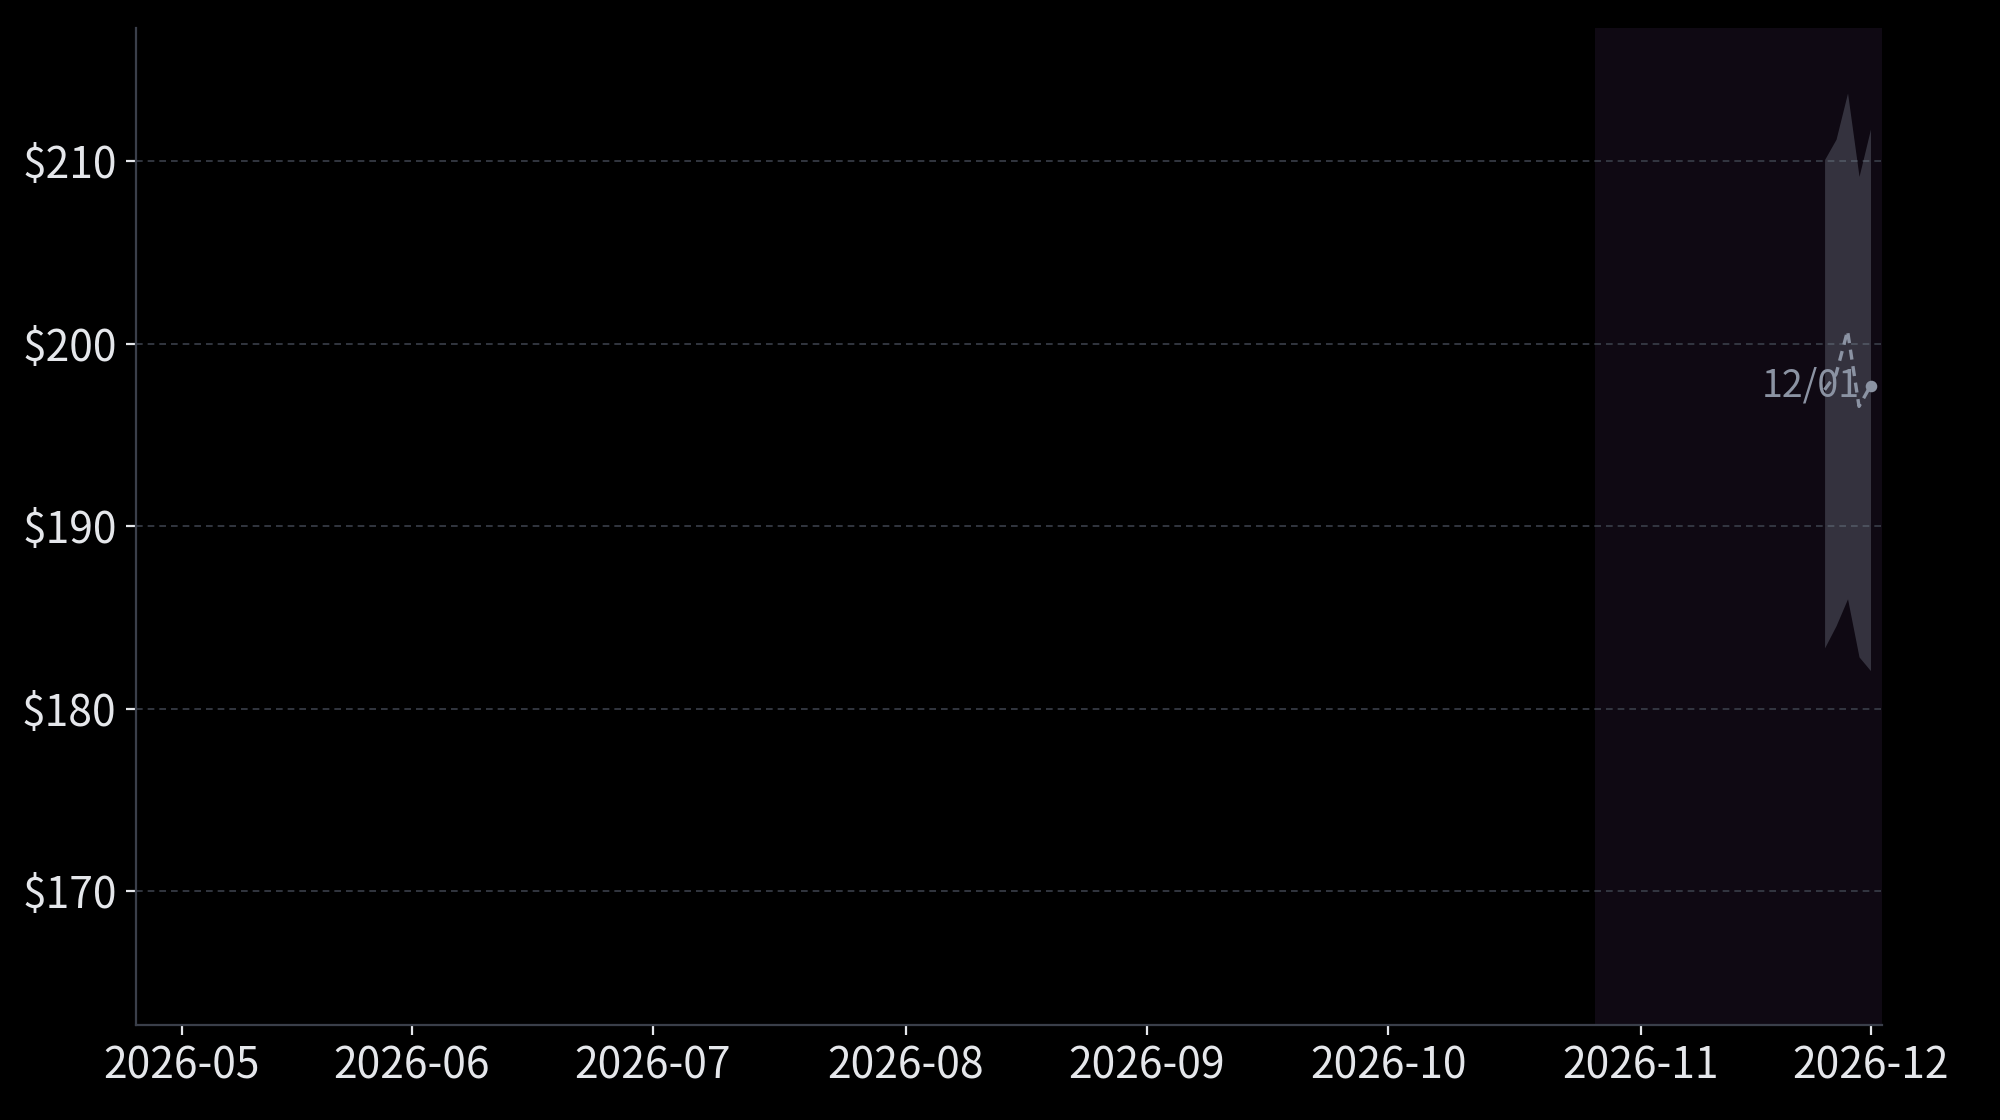
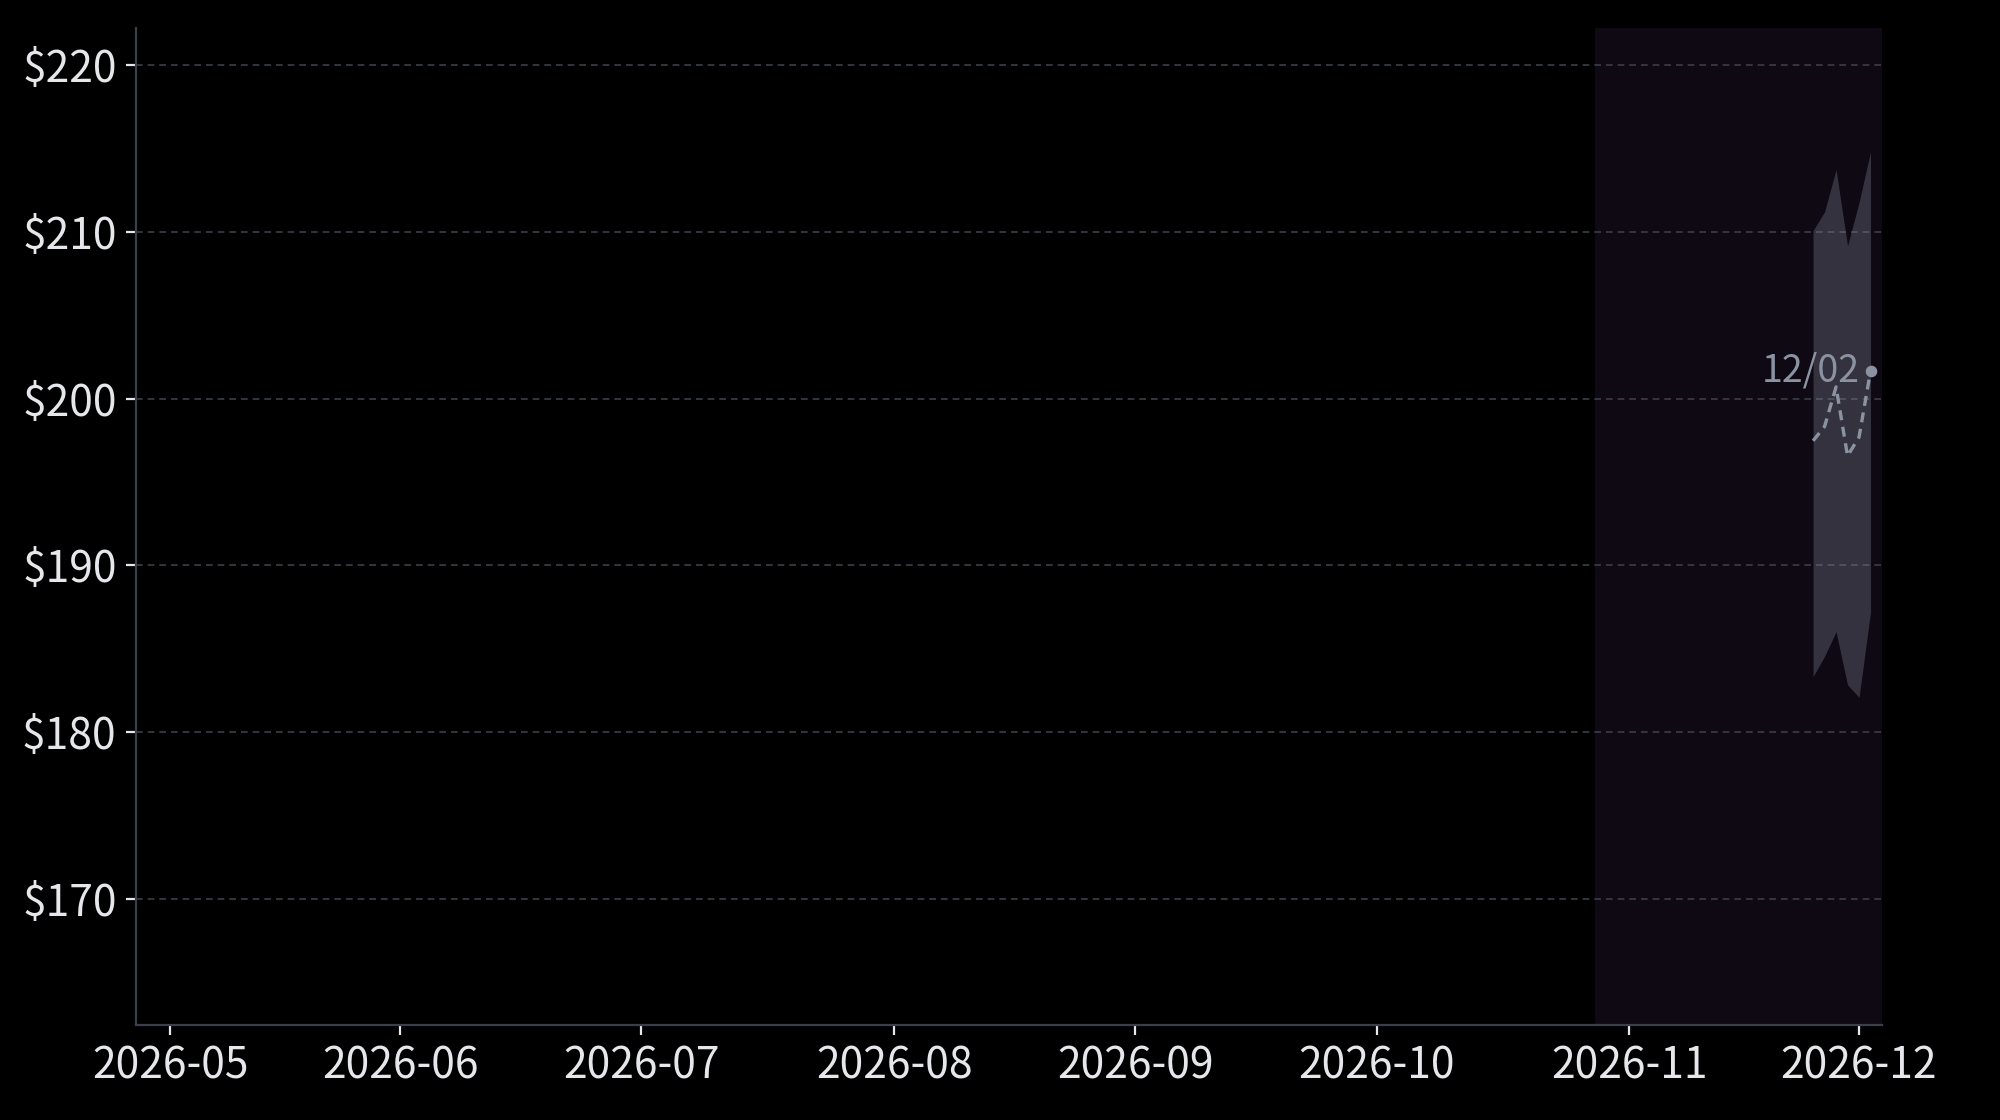
2026-10-29 biotech 리포트 공개본

diff --git a/r/20261029-biotech/report.html b/r/20261029-biotech/report.html
@@ -1,0 +1,109 @@
+<h2 id="1개월-지수-방향-예측">1개월 지수 방향 예측</h2>
+<p><img src="r/20261029-biotech/chart-biotech.png?v=8fc7914ad5" /></p>
+<p><img src="r/20261029-biotech/predict-biotech.png?v=5818e9bf67" /></p>
+<h3 id="현재-상태-금리가-오르고-알파벳-주가가-급락한-날에도-바이오-주가는-올랐다"><mark>현재 상태</mark> 금리가 오르고 알파벳 주가가 급락한 날에도 바이오 주가는 올랐다</h3>
+<p>10월 28일 연준은 기준금리를 3.75~4.00%로 동결했다. 위원 두 명은 0.25%p 인상을 주장하며 반대했다. 결정 뒤 연방기금 선물은 12월 인상 확률을 85.7%로 반영했고, 10년물 국채 수익률은 다시 5%를 넘었다. 알파벳의 3분기 잉여현금흐름은 같은 날 장 마감 뒤 발표에서 크게 줄었다. 알파벳 주가는 시간외 거래에서 10% 안팎 하락했다. 그런데도 나스닥바이오 지수는 그날 1.5% 올랐고, IBB도 시간외 거래에서 더 올랐다. 바이오 주가는 이틀 동안 올랐지만, 오른 이유를 설명한 보도는 아직 없다. 하이일드 채권 스프레드(투자자가 위험한 기업에 돈을 빌려줄 때 요구하는 신용 프리미엄)는 2주 만에 처음 낮아져 신용 불안은 줄었다. 그래도 10년물 국채 수익률이 반년 넘게 주식의 기대수익보다 높으므로 바이오 주가가 크게 오르기는 어렵다.</p>
+<h3 id="주요-분기와-예측-기술주-조정과-선거-뒤-이란-공격-여부에-따라-한-달-주가가-달라진다"><mark>주요 분기와 예측</mark> 기술주 조정과 선거 뒤 이란 공격 여부에 따라 한 달 주가가 달라진다</h3>
+<p>앞으로 한 달 동안 세 가지 이슈가 중요하다. 첫째, AI 기업의 설비투자 자금 부담 때문에 알파벳 실적 뒤 기술주 하락이 이어질 가능성이 높지만, 바이오 주가가 함께 크게 하락할 가능성은 낮다. 둘째, 중간선거 뒤 미국이 이란을 다시 공격할 가능성과 휴전을 유지할 가능성은 비슷하다. 미군은 대통령 명령 뒤 96시간 안에 공격할 수 있게 준비했다. 셋째, 9월 개인소비지출(PCE) 물가는 시장 예상에 가깝게 나올 가능성이 높다. 길리어드를 비롯한 대형 바이오 네 곳은 시장 예상을 넘는 실적을 낼 가능성이 조금 더 높다.</p>
+<h3 id="지수-영향-횡보-가능성이-가장-높고-큰-하락-가능성은-어제보다-줄었다"><mark>지수 영향</mark> 횡보 가능성이 가장 높고 큰 하락 가능성은 어제보다 줄었다</h3>
+<p>한 달 동안 지수가 횡보할 가능성이 가장 높고, 하락할 가능성이 그다음으로 높다. 하락 시나리오의 가능성을 키우는 일이 두 가지 있다. 기술주와 함께 바이오 주가도 하락하면 하락 시나리오의 가능성이 커진다. 선거 뒤 미국의 이란 공격이 확전으로 이어져도 하락 시나리오의 가능성이 커진다. 반대로 물가 상승세가 둔해지면 상승 시나리오의 가능성이 커진다. 대형 인수 발표도 상승 시나리오의 가능성을 키운다. 큰 하락 시나리오의 가능성은 어제보다 줄었고 상승과 횡보 시나리오의 가능성은 커졌다. 어제와 오늘 사이에 하이일드 채권 스프레드가 낮아졌다. 금리 상승과 기술주 하락에도 바이오 주가는 하락하지 않았다.</p>
+<h2 id="주요-이슈-해설">주요 이슈 해설</h2>
+<h3 id="1-알파벳-실적과-기술주-조정-하락-요인-중요도-높음">1. 알파벳 실적과 기술주 조정 <code>하락 요인</code> <code>중요도 높음</code></h3>
+<p><mark>현재 상태</mark> 마이크로소프트와 알파벳은 10월 28일 장 마감 뒤 3분기 실적을 발표했다. 마이크로소프트의 클라우드 서비스 Azure 매출은 48% 늘었다. 마이크로소프트 주가는 시간외 거래에서 3% 넘게 올랐다. 알파벳의 3분기 잉여현금흐름은 -90.7억 달러로 애널리스트 예상보다 훨씬 나빴다. 알파벳 주가는 시간외 거래에서 10% 안팎 하락했다. 알파벳은 3분기에 회사채로 287억 달러, 새 주식으로 약 124억 달러를 조달했다. CNBC는 알파벳의 실적을 AI 투자에 대한 우려스러운 신호로 전했고, 나스닥100 선물은 1.2% 하락했다. 하지만 같은 시간 IBB는 시간외 거래에서 0.6% 올랐다.</p>
+<p><mark>주요 분기와 예측</mark> AI 기업이 설비투자 자금을 빚과 새 주식으로 마련한다는 우려 때문에 기술주가 조금 더 하락할 가능성이 높다. 나스닥100 ETF인 QQQ는 10월 6일 고점보다 약 4.5% 낮다. 바이오 주가는 기술주를 따라 크게 하락하지 않을 가능성이 높다. 메타 실적 다음 날에도 QQQ는 2.9% 하락했지만 IBB는 0.75% 하락에 그쳤다. 다만 QQQ가 고점 대비 8% 넘게 하락하면 바이오 주가도 함께 하락할 가능성이 커진다.</p>
+<p><mark>지수 영향</mark> 기술주가 하락하면 투자자가 위험자산을 함께 줄이면서 바이오 주가도 하락할 수 있다. 지금은 이 경로가 약하게 작동한다. 알파벳 급락 뒤에도 IBB 시간외 가격이 올랐기 때문이다. 2018년 10월 24일 나스닥바이오 지수는 하루에 6% 넘게 하락했다. 금리가 오르는 가운데 기술주가 급락한 날이다. 그해 12월에 지수는 한 번 더 크게 하락했다.</p>
+<h3 id="2-중간선거-뒤-미국의-이란-재공격-양방향-중요도-보통">2. 중간선거 뒤 미국의 이란 재공격 <code>양방향</code> <code>중요도 보통</code></h3>
+<p><mark>현재 상태</mark> 백악관은 10월 27일 로이터에 중간선거 전에는 이란을 공격하지 않겠다고 다시 밝혔다. CNN에 따르면 미국은 같은 날 사우디아라비아에 주재하는 비필수 인원과 가족에게 출국을 명령했고, 미군은 대통령 명령 뒤 96시간 안에 이란을 공격할 수 있다. 이란은 호르무즈 해협을 다시 여는 조건으로 동결된 외환 240억 달러를 먼저 쓸 수 있게 해 달라고 요구했다. 9월 보도의 120억 달러보다 많다. 예측시장은 선거 전 공격 가능성을 낮게 반영했다. 예측시장은 10월 19일 기준으로 선거 뒤 한 달 안의 공격 가능성을 절반 가까이로 반영했다.</p>
+<p><mark>주요 분기와 예측</mark> 선거 뒤 한 달 안에 미국이 이란을 짧게 집중 공격할 가능성과 공격하지 않을 가능성이 비슷하다. 공격이 호르무즈 해협 재봉쇄로 이어질 가능성은 낮다. 협상에서 이란의 요구가 늘었기 때문에 선거 전에 타결될 가능성도 낮다. 미국이 해상 봉쇄를 풀겠다고 밝히면 공격 가능성이 줄어든다. 그러면 유가도 하락한다.</p>
+<p><mark>지수 영향</mark> 선거 뒤 몇 주 동안 공격이 없으면 투자자는 공격 위험을 주가에 덜 반영한다. 그러면 바이오 주가가 조금 오른다. 공격이 일어나면 유가 상승 때문에 바이오 주가가 하락한다. 5년 기대 인플레이션은 이미 평상시 범위의 위쪽 끝에 있다. 그래서 유가가 더 오르면 금리 인상에 대한 기대가 커질 수 있다. 2026년 3월 이란 전쟁이 확전됐을 때 IBB는 열흘 사이 세 차례 2% 넘게 하락했고, 4월 초까지 낙폭의 대부분을 회복했다.</p>
+<h3 id="3-바이오-기업의-공모증자-자금-조달-양방향-중요도-보통">3. 바이오 기업의 공모·증자 자금 조달 <code>양방향</code> <code>중요도 보통</code></h3>
+<p><mark>현재 상태</mark> 바이오 기업은 아직 주식과 전환사채로 자금을 모을 수 있다. 신경질환 치료제를 개발하는 Rapport Therapeutics는 10월 28일 주식 1.75억 달러와 전환사채 1.5억 달러를 발행하기로 확정했다. 10월 들어 공모를 철회하거나 제시한 범위보다 낮은 가격으로 상장한 바이오 기업은 없다. 다만 일부 기업은 할인된 가격으로 증자했다. 면역질환 치료제를 개발하는 Aclaris는 임상 결과를 발표한 날 직전 종가보다 7.7% 낮은 가격에 주식을 팔았다.</p>
+<p><mark>주요 분기와 예측</mark> 한 달 동안 바이오 기업의 공모와 증자가 이어질 가능성이 높다. 반대로 바이오 주가가 크게 하락하면 기업들이 공모를 미룬다. 그러면 중소형 바이오가 자금을 구하기 어려워진다. 11월 13일까지 공모 철회가 두 건 이상 나오면 중소형 바이오 주가가 하락할 가능성이 커진다.</p>
+<p><mark>지수 영향</mark> 공모와 증자가 이어지면 지수는 횡보하거나 조금 오른다. 지수가 6.5% 넘게 하락하면 기업들이 공모를 철회한다. 그러면 중소형 바이오 주가가 더 하락할 수 있다. 지금은 바이오 기업 대부분이 제시한 범위 안에서 공모 가격을 확정한다. 2024년 4월에는 그해 3월에 상장한 바이오 기업 9곳 가운데 세 곳만 주가가 공모가보다 높았다. 같은 시기 IBB는 일주일 사이 약 5% 하락했다.</p>
+<h3 id="검토했지만-비중을-낮춘-이슈">검토했지만 비중을 낮춘 이슈</h3>
+<ul>
+<li><strong>AI 인프라 기업의 신용 불안 확산</strong>: 하이일드 채권 스프레드가 2주 만에 처음 낮아졌다. 알파벳 실적 뒤에도 회사채 시장의 반응은 보도되지 않았다.</li>
+<li><strong>상장 바이오 기업의 추가 대형 인수</strong>: 거래 당사자들이 중간선거 뒤를 기다리고 있다. 그래서 한 달 안에 대형 인수가 발표될 가능성은 절반 정도다.</li>
+<li><strong>9월 개인소비지출 물가</strong>: 시장은 이미 12월 금리 인상을 예상한다. 그래서 예상에 가까운 결과에는 주가가 크게 움직이지 않는다.</li>
+<li><strong>10월 FOMC의 인상 반대 두 표</strong>: 시장이 이미 12월 인상을 예상하고 있어 바이오 주가는 결정 당일에도 올랐다.</li>
+<li><strong>재무부의 중국 바이오 투자 제한 규칙안</strong>: 여러 로펌의 해석으로는 현금으로 대가를 치르는 신약 후보 라이선스가 규칙 대상이 아니다. 그래서 이번 달 바이오 기업의 이익으로 이어지는 경로가 약하다.</li>
+<li><strong>앤트로픽 대형 상장</strong>: AI 모델 개발사 앤트로픽이 11월 중순 상장을 준비하고 있지만, 바이오 공모 일정에 영향을 주는지는 아직 확인되지 않았다.</li>
+</ul>
+<h2 id="다가오는-이벤트">다가오는 이벤트</h2>
+<h3 id="1028수-장중-fomc-중요도-낮음" data-day="2026-10-28" data-level="low"><span class="when">10/29(목) 03:00 KST</span>FOMC <code>중요도 낮음</code></h3>
+<table class="events judged">
+<thead><tr><th>분기</th><th>확률</th><th>전개 예상</th></tr></thead>
+<tbody>
+<tr class="hit"><td class="branch">기준금리 동결·12월 인상 시사 유지</td><td class="chance">92%</td><td>시장이 이미 예상한 결과라 발표 뒤 바이오 주가가 크게 움직이지 않는다. <span class="outcome">→ 연준이 기준금리를 3.75~4.00%로 동결했고 쿡·해맥 두 위원이 0.25%p 인상을 주장하며 반대했다. 성명은 12월 인상을 명시하지 않았다. 결정 뒤 12월 인상 확률은 85.7%로 올랐고, 그날 IBB는 1.5% 올랐다.</span></td></tr>
+<tr><td class="branch">동결·추가 조정 문구 약화</td><td class="chance">3%</td><td>투자자가 금리 인상이 곧 끝난다고 기대해 바이오 주가가 오른다.</td></tr>
+<tr><td class="branch">기준금리 0.25%p 인상</td><td class="chance">5%</td><td>예상하지 못한 인상이라 금리 부담이 커지고 바이오 주가가 몇 주 동안 하락한다.</td></tr>
+</tbody>
+</table>
+<h3 id="1028수-장후-마이크로소프트알파벳-3분기-실적-중요도-보통" data-day="2026-10-28" data-level="mid"><span class="when">장후</span>마이크로소프트·알파벳 3분기 실적 <code>중요도 보통</code></h3>
+<table class="events judged">
+<thead><tr><th>분기</th><th>확률</th><th>전개 예상</th></tr></thead>
+<tbody>
+<tr><td class="branch">클라우드 성장으로 AI 설비투자 정당화</td><td class="chance">55%</td><td>기술주에 대한 불안이 줄어 바이오 주가도 조금 오른다.</td></tr>
+<tr class="hit"><td class="branch">설비투자 상향에 조달 부담·성장 둔화 부각</td><td class="chance">45%</td><td>기술주가 다시 하락하고 AI 기업의 신용 불안이 커져 바이오 주가도 하락한다. <span class="outcome">→ 3분기 잉여현금흐름이 -90.7억 달러로 예상보다 크게 나빠 알파벳 주가는 시간외에서 10% 안팎 내렸다. 마이크로소프트 주가는 Azure 매출 48% 증가에 힘입어 시간외에서 3~4% 올랐다. 나스닥100 선물은 1.2% 내렸지만 IBB는 시간외에서 0.6% 올랐다.</span></td></tr>
+</tbody>
+</table>
+<p><img src="r/20261029-biotech/tree-biotech.png?v=5c9cb714d4" /></p>
+<h3 id="1029목-장전-9월-pce-물가-중요도-보통" data-day="2026-10-29" data-level="mid"><span class="when">10/29(목) 21:30 KST</span>9월 PCE 물가 <code>중요도 보통</code></h3>
+<table class="events">
+<thead><tr><th>분기</th><th>확률</th><th>전개 예상</th></tr></thead>
+<tbody>
+<tr><td class="branch">근원 전월비 0.35% 이상</td><td class="chance">27%<br><small class="delta flat">–</small></td><td>내년에도 금리를 더 올릴 수 있다는 기대가 커져 바이오 주가가 몇 주 동안 하락한다</td></tr>
+<tr><td class="branch">근원 전월비 0.25~0.34%</td><td class="chance">60%<br><small class="delta flat">–</small></td><td>시장이 예상한 결과라 주가가 크게 움직이지 않는다</td></tr>
+<tr><td class="branch">근원 전월비 0.24% 이하</td><td class="chance">13%<br><small class="delta flat">–</small></td><td>12월 인상에 대한 확신이 줄어 주가가 오른다</td></tr>
+</tbody>
+</table>
+<h3 id="1029목-장후-길리어드-3분기-실적-중요도-낮음" data-day="2026-10-29" data-level="low"><span class="when">장후</span>길리어드 3분기 실적 <code>중요도 낮음</code></h3>
+<table class="events">
+<thead><tr><th>분기</th><th>확률</th><th>전개 예상</th></tr></thead>
+<tbody>
+<tr><td class="branch">매출·EPS 컨센서스 이상·가이던스 유지 이상</td><td class="chance">60%<br><small class="delta down">▼2%p</small></td><td>IBB에서 비중이 가장 큰 길리어드의 주가가 하락하지 않아 지수가 조금 오른다</td></tr>
+<tr><td class="branch">가이던스 유지에도 3% 넘게 하락하거나 매출 미달</td><td class="chance">40%<br><small class="delta up">▲2%p</small></td><td>주가가 이미 높아 실망 매물이 나오고, 다른 대형 바이오의 실적에 대한 기대도 낮아진다</td></tr>
+</tbody>
+</table>
+<h3 id="1030금-장전-리제네론-3분기-실적-중요도-낮음" data-day="2026-10-30" data-level="low"><span class="when">10/30(금) 20:00 KST</span>리제네론 3분기 실적 <code>중요도 낮음</code></h3>
+<table class="events">
+<thead><tr><th>분기</th><th>확률</th><th>전개 예상</th></tr></thead>
+<tbody>
+<tr><td class="branch">매출·EPS 컨센서스 이상·비용 가이던스 유지</td><td class="chance">56%<br><small class="delta flat">–</small></td><td>사노피와의 협력 이익이 확인되면서 주가가 조금 오른다</td></tr>
+<tr><td class="branch">Dupixent 둔화로 매출 미달 또는 비용 가이던스 악화</td><td class="chance">44%<br><small class="delta flat">–</small></td><td>이미 높아진 이익 예상이 낮아지면서 리제네론과 지수가 하락한다</td></tr>
+</tbody>
+</table>
+<h3 id="1102월-장후-버텍스-3분기-실적-중요도-낮음" data-day="2026-11-02" data-level="low"><span class="when">장후</span>버텍스 3분기 실적 <code>중요도 낮음</code></h3>
+<table class="events">
+<thead><tr><th>분기</th><th>확률</th><th>전개 예상</th></tr></thead>
+<tbody>
+<tr><td class="branch">매출·비GAAP EPS 기준 이상·인수 영향 뺀 가이던스 유지</td><td class="chance">55%<br><small class="delta flat">–</small></td><td>낭포성 섬유증 치료제의 제품 전환이 순조롭다는 뜻이라 주가가 조금 오른다</td></tr>
+<tr><td class="branch">Trikafta 약세로 매출 미달 또는 가이던스 하향</td><td class="chance">45%<br><small class="delta flat">–</small></td><td>성장 둔화 우려 때문에 버텍스 주가가 하락하고 지수도 함께 하락한다</td></tr>
+</tbody>
+</table>
+<h3 id="1103화-장후-암젠-3분기-실적-중요도-낮음" data-day="2026-11-03" data-level="low"><span class="when">장후</span>암젠 3분기 실적 <code>중요도 낮음</code></h3>
+<table class="events">
+<thead><tr><th>분기</th><th>확률</th><th>전개 예상</th></tr></thead>
+<tbody>
+<tr><td class="branch">매출·EPS 컨센서스 이상·가이던스 유지</td><td class="chance">55%<br><small class="delta up">▲5%p</small></td><td>최근 네 분기처럼 예상을 넘으면 주가가 조금 오른다</td></tr>
+<tr><td class="branch">영업비용 증가로 EPS 미달 또는 가이던스 하향</td><td class="chance">45%<br><small class="delta down">▼5%p</small></td><td>주가가 애널리스트 평균 목표가보다 높아 실망하면 주가가 하락한다</td></tr>
+</tbody>
+</table>
+<h3 id="1103화-장후-미국-중간선거-중요도-낮음" data-day="2026-11-03" data-level="low"><span class="when">11/04(수) 10:00 KST</span>미국 중간선거 <code>중요도 낮음</code></h3>
+<table class="events">
+<thead><tr><th>분기</th><th>확률</th><th>전개 예상</th></tr></thead>
+<tbody>
+<tr><td class="branch">민주당 상·하원 장악</td><td class="chance">64%<br><small class="delta flat">–</small></td><td>약가 청문회에 대한 우려 때문에 며칠 동안 바이오 주가가 시장보다 약하다</td></tr>
+<tr><td class="branch">민주 하원·공화 상원 분할</td><td class="chance">28%<br><small class="delta flat">–</small></td><td>약가 입법 가능성이 낮아져 바이오 주가가 오른다</td></tr>
+<tr><td class="branch">공화당 상·하원 유지</td><td class="chance">8%<br><small class="delta flat">–</small></td><td>약가 규제에 대한 불안이 줄어 바이오 주가가 오른다</td></tr>
+</tbody>
+</table>
+<h3 id="1104수-장전-재무부-4분기-리펀딩-중요도-낮음" data-day="2026-11-04" data-level="low"><span class="when">11/04(수) 22:30 KST</span>재무부 4분기 리펀딩 <code>중요도 낮음</code></h3>
+<table class="events">
+<thead><tr><th>분기</th><th>확률</th><th>전개 예상</th></tr></thead>
+<tbody>
+<tr><td class="branch">쿠폰 규모·지침 유지</td><td class="chance">60%<br><small class="delta flat">–</small></td><td>시장이 예상한 결과라 주가가 크게 움직이지 않는다</td></tr>
+<tr><td class="branch">장기물 축소·단기물 확대</td><td class="chance">34%<br><small class="delta flat">–</small></td><td>장기 금리가 내려 바이오 주가가 조금 오른다</td></tr>
+<tr><td class="branch">쿠폰 증액 예고</td><td class="chance">6%<br><small class="delta flat">–</small></td><td>장기 금리가 다시 올라 바이오 주가가 몇 주 동안 하락한다</td></tr>
+</tbody>
+</table>
